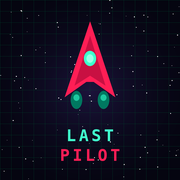
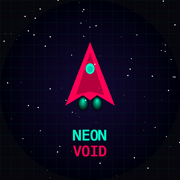
Back to Neon Void; fix offline play on GitHub Pages
Name: it's a just-for-fun school game now, so drop the Last Pilot rebrand.
Restored the original user-facing strings from before ff6e132 (title, menu
logos, intro lore, og.html, manifest, README, arcade card, worker comment)
and rebuilt the web icons from the original NEON VOID icon art. Download
names go back to neon-void-screenshot.png / neon-void-save.json. The privacy
page now links to GitHub issues instead of listing a personal email.

Offline: the service worker was registered at '/sw.js', which on
github.io/neon-void/ resolves to the domain root and 404s — so caching/offline
never worked on Pages. Register 'sw.js' relatively, make the precache list
relative, and give the manifest a relative start_url + scope so an installed
copy opens the game instead of a 404. Cache v74 -> v75.

Verified under a mirrored /neon-void/ subpath: SW registers and activates with
scope /neon-void/, all 6 assets precache, manifest start_url resolves to
/neon-void/index.html, login -> menu -> Sector 1 plays, zero console errors.

diff --git a/index.html b/index.html
@@ -3,7 +3,7 @@
 <head>
     <meta charset="UTF-8">
     <meta name="viewport" content="width=device-width, initial-scale=1.0, maximum-scale=1.0, user-scalable=no, viewport-fit=cover">
-    <title>Last Pilot</title>
+    <title>Neon Void</title>
     <link rel="manifest" href="manifest.json">
     <link rel="icon" type="image/png" sizes="512x512" href="icon-512.png">
     <link rel="apple-touch-icon" sizes="180x180" href="apple-touch-icon.png">
@@ -269,7 +269,7 @@
         })();
         </script>
         <div style="font-size:20px;color:rgba(0,255,204,0.33);letter-spacing:12px;margin-bottom:8px;animation:fadeIn 1s ease;">WELCOME TO</div>
-        <div class="title-text" style="-webkit-text-stroke: 2px #ff0055; text-shadow: 0 0 15px rgba(255,0,85,0.4), 0 0 30px rgba(255,0,85,0.19); font-size:clamp(50px,12vw,80px); animation:titlePulse 3s ease-in-out infinite;">LAST PILOT</div>
+        <div class="title-text" style="-webkit-text-stroke: 2px #ff0055; text-shadow: 0 0 15px rgba(255,0,85,0.4), 0 0 30px rgba(255,0,85,0.19); font-size:clamp(50px,12vw,80px); animation:titlePulse 3s ease-in-out infinite;">NEON VOID</div>
         <style>@keyframes titlePulse { 0%,100% { text-shadow: 0 0 15px rgba(255,0,85,0.4), 0 0 30px rgba(255,0,85,0.19); } 50% { text-shadow: 0 0 25px rgba(255,0,85,0.4), 0 0 40px rgba(255,0,85,0.19); } } @keyframes fadeIn { from { opacity:0; transform:translateY(-10px); } to { opacity:1; transform:translateY(0); } }</style>
         <div class="subtitle-text" style="color:#888;font-size:16px;letter-spacing:4px;margin-top:5px;">THE ULTIMATE SPACE SHOOTER</div>
         <div style="width:60px;height:2px;background:linear-gradient(90deg,transparent,#00ffcc,transparent);margin:20px auto;"></div>
@@ -340,7 +340,7 @@
 
 
     <div id="ui-layer">
-        <h1>LAST PILOT</h1>
+        <h1>NEON VOID</h1>
         <div class="hud-text" id="level-display">LVL: 1</div>
         <div class="hud-text" id="score-display">SCORE: 0</div>
         <div id="combo-display">COMBO x1.0</div>
@@ -373,7 +373,7 @@
 
     <div id="main-overlay" class="overlay-screen" style="overflow-y:auto;">
         <div id="menu-inner-wrap" style="display:flex;flex-direction:column;align-items:center;justify-content:center;min-height:100%;padding:30px 0 50px;">
-        <div class="title-text" id="main-title">LAST PILOT</div>
+        <div class="title-text" id="main-title">NEON VOID</div>
         <div class="subtitle-text" id="main-desc">
             <strong>ARROW KEYS / WASD</strong> to Move | <strong>SPACE / MOUSE</strong> to Shoot<br>
             <strong>SHIFT / RIGHT-CLICK</strong> to Dash | <strong>[C]</strong> to Toggle Aim | <strong>[ESC]</strong> to Pause<br>
@@ -5350,7 +5350,7 @@ state.paused = true; ui.lvlScreen.classList.remove('hidden'); ui.perkContainer.i
             if (typeof bestiaryData !== 'undefined') secureSave('neonVoidBestiary', bestiaryData);
             stopMusic(); startMenuBg(); if (appSettings.music) startMenuMusic();
             ui.mainOverlay.classList.remove('hidden'); ui.mainOverlay.classList.remove('win-theme');
-            ui.mainTitle.innerText = "LAST PILOT"; ui.mainTitle.style.webkitTextStroke = "2px #ff0055"; ui.mainTitle.style.textShadow = "0 0 20px rgba(255,0,85,0.38)";
+            ui.mainTitle.innerText = "NEON VOID"; ui.mainTitle.style.webkitTextStroke = "2px #ff0055"; ui.mainTitle.style.textShadow = "0 0 20px rgba(255,0,85,0.38)";
             ui.mainDesc.innerHTML = `<strong>ARROW KEYS / WASD</strong> to Move | <strong>SPACE / MOUSE</strong> to Shoot<br><strong>SHIFT / RIGHT-CLICK</strong> to Dash | <strong>[C]</strong> to Toggle Aim | <strong>[ESC]</strong> to Pause<br><span style="color: #ff0055; font-weight:bold;">THE ULTIMATE UPDATE</span>` + (isWeekendEvent() ? '<br><span style="color:#ffcc00;font-weight:bold;font-size:16px;text-shadow:0 0 10px #ffcc00;">WEEKEND EVENT: 2x XP + 2x COINS</span>' : '');
             document.getElementById('menu-coin-display').innerText = `TOTAL COINS: ${totalCoins}`;
 
@@ -6146,7 +6146,7 @@ state.paused = true; ui.lvlScreen.classList.remove('hidden'); ui.perkContainer.i
                 if (e.code === 'Digit4') photoFilter = 3;
                 if (e.code === 'Digit5') photoFilter = 4;
                 if (e.key === 's' || e.key === 'S') {
-                    let link = document.createElement('a'); link.download = 'last-pilot-screenshot.png'; link.href = canvas.toDataURL(); link.click();
+                    let link = document.createElement('a'); link.download = 'neon-void-screenshot.png'; link.href = canvas.toDataURL(); link.click();
                 }
             }
         });
@@ -9507,7 +9507,7 @@ state.paused = true; ui.lvlScreen.classList.remove('hidden'); ui.perkContainer.i
                 if (key.startsWith('neonVoid')) data[key] = localStorage.getItem(key);
             }
             let blob = new Blob([JSON.stringify(data, null, 2)], { type: 'application/json' });
-            let a = document.createElement('a'); a.href = URL.createObjectURL(blob); a.download = 'last-pilot-save.json'; a.click();
+            let a = document.createElement('a'); a.href = URL.createObjectURL(blob); a.download = 'neon-void-save.json'; a.click();
             URL.revokeObjectURL(a.href);
         }
 
@@ -11509,7 +11509,7 @@ function generateSyncCode() {
 
             ui.mainOverlay.classList.remove('hidden');
             ui.mainOverlay.classList.remove('win-theme');
-            ui.mainTitle.innerText = "LAST PILOT";
+            ui.mainTitle.innerText = "NEON VOID";
             ui.mainTitle.style.webkitTextStroke = "3px #ff0055";
             ui.mainTitle.style.textShadow = "0 0 50px #ff0055";
             ui.mainDesc.innerHTML = `<strong>ARROW KEYS / WASD</strong> to Move | <strong>SPACE / MOUSE</strong> to Shoot<br><strong>SHIFT / RIGHT-CLICK</strong> to Dash | <strong>[C]</strong> to Toggle Aim | <strong>[ESC]</strong> to Pause<br><span style="color: #ff0055; font-weight:bold;">THE ULTIMATE UPDATE</span>` + (isWeekendEvent() ? '<br><span style="color:#ffcc00;font-weight:bold;font-size:16px;text-shadow:0 0 10px #ffcc00;">WEEKEND EVENT: 2x XP + 2x COINS</span>' : '');
@@ -11986,9 +11986,9 @@ function generateSyncCode() {
                 <!-- SCROLLABLE BODY -->
                 <div class="nv-body-scroll">
 
-                    <!-- LAST PILOT TITLE -->
+                    <!-- NEON VOID TITLE -->
                     <div class="nv-title-section">
-                        <div class="nv-title-logo">LAST PILOT</div>
+                        <div class="nv-title-logo">NEON VOID</div>
                     </div>
 
                     <!-- SHIP ICON -->
@@ -13943,7 +13943,8 @@ if(mp.grappleHook){let gh=mp.grappleHook;mx.strokeStyle=COLORS.neon;mx.lineWidth
     <script>
     if ('serviceWorker' in navigator) {
         window.addEventListener('load', () => {
-            navigator.serviceWorker.register('/sw.js').catch(() => {});
+            // Relative path: the site is served from /neon-void/ on GitHub Pages, not the domain root
+            navigator.serviceWorker.register('sw.js').catch(() => {});
         });
     }
     </script>
@@ -15003,7 +15004,7 @@ function playTensionNote(){
 
 // ---- FEATURE 85: CINEMATIC INTROS ----
 var cinematicActive=false;
-var CINEMATIC_LORE=['The Void stirs. Ancient machines wake.','Signal received from Sector 7-Gamma:\n"We are not alone."','LAST PILOT PROTOCOL ENGAGED...\nYou are all that remains.','Year 2387. The last fleet launched. One returned.','WARNING: Void anomaly detected.\nAll non-essential personnel evacuate.'];
+var CINEMATIC_LORE=['The Void stirs. Ancient machines wake.','Signal received from Sector 7-Gamma:\n"We are not alone."','NEON VOID SYSTEM BOOT...\nAll pilots: scramble.','Year 2387. The last fleet launches.','WARNING: Void anomaly detected.\nAll non-essential personnel evacuate.'];
 function playBootCinematic(onDone){
   if(cinematicActive){if(onDone)onDone();return;}cinematicActive=true;
   var cvs=document.createElement('canvas');cvs.style.cssText='position:fixed;inset:0;width:100%;height:100%;z-index:99999;background:#000;';cvs.width=window.innerWidth;cvs.height=window.innerHeight;document.body.appendChild(cvs);

diff --git a/og.html b/og.html
@@ -3,7 +3,7 @@
 <head>
     <meta charset="UTF-8">
     <meta name="viewport" content="width=device-width, initial-scale=1.0, maximum-scale=1.0, user-scalable=no, viewport-fit=cover">
-    <title>Last Pilot — Classic</title>
+    <title>Neon Void — Classic</title>
     <style>
         body { 
             margin: 0; overflow: hidden; background: #000; 
@@ -82,7 +82,7 @@
 
 
     <div id="ui-layer">
-        <h1>LAST PILOT</h1>
+        <h1>NEON VOID</h1>
         <div class="hud-text" id="level-display">LVL: 1</div>
         <div class="hud-text" id="score-display">SCORE: 0</div>
         <div id="combo-display">COMBO x1.0</div>
@@ -109,7 +109,7 @@
 
 
     <div id="main-overlay" class="overlay-screen">
-        <div class="title-text" id="main-title">LAST PILOT</div>
+        <div class="title-text" id="main-title">NEON VOID</div>
         <div class="subtitle-text" id="main-desc">
             <strong>ARROW KEYS / WASD</strong> to Move | <strong>SPACE / MOUSE</strong> to Shoot<br>
             <strong>SHIFT / RIGHT-CLICK</strong> to Dash | <strong>[C]</strong> to Toggle Aim | <strong>[ESC]</strong> to Pause<br>
@@ -118,7 +118,7 @@
         </div>
         <div class="subtitle-text" id="menu-coin-display" style="color: #ffcc00; font-weight: bold; font-size: 24px;">TOTAL COINS: 0</div>
         <div class="btn-container" id="menu-btns"></div>
-        <button onclick="window.location.href='index.html'" style="border-color:#88ff88; color:#88ff88; margin-top:20px; box-shadow:0 0 15px #88ff88; font-size:14px;">BACK TO LAST PILOT</button>
+        <button onclick="window.location.href='index.html'" style="border-color:#88ff88; color:#88ff88; margin-top:20px; box-shadow:0 0 15px #88ff88; font-size:14px;">BACK TO NEW NEON VOID</button>
     </div>
 
 
@@ -1317,7 +1317,7 @@
         function returnToMenu() {
             document.getElementById('mission-select').classList.add('hidden'); document.getElementById('shop-screen').classList.add('hidden'); document.getElementById('settings-screen').classList.add('hidden'); document.getElementById('pause-screen').classList.add('hidden'); document.getElementById('draw-screen').classList.add('hidden');
             ui.mainOverlay.classList.remove('hidden'); ui.mainOverlay.classList.remove('win-theme'); 
-            ui.mainTitle.innerText = "LAST PILOT"; ui.mainTitle.style.webkitTextStroke = "3px #ff0055"; ui.mainTitle.style.textShadow = "0 0 50px #ff0055";
+            ui.mainTitle.innerText = "NEON VOID"; ui.mainTitle.style.webkitTextStroke = "3px #ff0055"; ui.mainTitle.style.textShadow = "0 0 50px #ff0055";
             ui.mainDesc.innerHTML = `<strong>ARROW KEYS / WASD</strong> to Move | <strong>SPACE / MOUSE</strong> to Shoot<br><strong>SHIFT / RIGHT-CLICK</strong> to Dash | <strong>[C]</strong> to Toggle Aim | <strong>[ESC]</strong> to Pause<br><span style="color: #ff0055; font-weight:bold;">THE COMPANION & STORY UPDATE</span>`; 
             document.getElementById('menu-coin-display').innerText = `TOTAL COINS: ${totalCoins}`;
             

diff --git a/privacy.html b/privacy.html
@@ -3,7 +3,7 @@
 <head>
 <meta charset="UTF-8">
 <meta name="viewport" content="width=device-width, initial-scale=1.0">
-<title>Last Pilot — Privacy Policy</title>
+<title>Neon Void — Privacy Policy</title>
 <style>
   :root { --bg:#06060c; --fg:#d8d8e8; --accent:#00ffcc; --accent2:#ff0055; --muted:#8a8aa0; }
   * { box-sizing:border-box; }
@@ -22,10 +22,10 @@
 </head>
 <body>
 <div class="wrap">
-  <h1>LAST PILOT</h1>
+  <h1>NEON VOID</h1>
   <div class="sub">Privacy Policy &nbsp;•&nbsp; Last updated: June 27, 2026</div>
 
-  <p>Last Pilot is a single-player arcade game with an optional online save feature. We designed it to collect as little as possible. This policy explains exactly what is stored and where.</p>
+  <p>Neon Void is a single-player arcade game with an optional online save feature. We designed it to collect as little as possible. This policy explains exactly what is stored and where.</p>
   <span class="pill">No ads · No third-party trackers · No data sold</span>
 
   <h2>What stays on your device</h2>
@@ -51,7 +51,7 @@
   <p>Cloud-save data is used for one purpose only: to store and restore your game progress when you sign in. We do not sell, rent, or share your data with third parties. Network requests the game makes are limited to our own save server over an encrypted (HTTPS) connection.</p>
 
   <h2>Children's privacy</h2>
-  <p>Last Pilot does not knowingly collect personal information from children, contains no behavioral advertising, and does no cross-app tracking. The only optional data is a self-chosen username and gameplay progress.</p>
+  <p>Neon Void does not knowingly collect personal information from children, contains no behavioral advertising, and does no cross-app tracking. The only optional data is a self-chosen username and gameplay progress.</p>
 
   <h2>Deleting your data</h2>
   <ul>
@@ -63,9 +63,9 @@
   <p>If this policy changes, the "Last updated" date above will change. Material changes will be reflected here before they take effect.</p>
 
   <h2>Contact</h2>
-  <p>Questions or data-deletion requests: <a href="mailto:asingh@xylox.ai">asingh@xylox.ai</a></p>
+  <p>Questions or data-deletion requests: <a href="https://github.com/viraajbindra-a11y/neon-void/issues">open an issue on GitHub</a></p>
 
-  <footer>Last Pilot &copy; 2026. This page is the official privacy policy referenced by the Last Pilot app on the App Store.</footer>
+  <footer>Neon Void &copy; 2026. A just-for-fun arcade game.</footer>
 </div>
 </body>
 </html>

diff --git a/games/index.html b/games/index.html
@@ -412,7 +412,7 @@ window.addEventListener('scroll', () => {
 
 const GAMES = [
     // ===== OUR CUSTOM GAMES =====
-    { title:"LAST PILOT", desc:"Space shooter with 20 sectors, co-op multiplayer, drones, bosses, ship customization.", icon:"🚀", href:"../index.html", accent:"#00ffcc", bg:"radial-gradient(ellipse at center,#002a22 0%,#06060c 70%)", tags:["shooter","multiplayer"], featured:true, noAds:true },
+    { title:"NEON VOID", desc:"Space shooter with 20 sectors, co-op multiplayer, drones, bosses, ship customization.", icon:"🚀", href:"../index.html", accent:"#00ffcc", bg:"radial-gradient(ellipse at center,#002a22 0%,#06060c 70%)", tags:["shooter","multiplayer"], featured:true, noAds:true },
     { title:"VOID SHOOTER", desc:"Retro raycasting FPS. DOOM meets cyberpunk. 3 weapons, 4 enemy types.", icon:"🔫", href:"fps.html", accent:"#ff0055", bg:"radial-gradient(ellipse at center,#2a0011 0%,#06060c 70%)", tags:["shooter"], isNew:true, noAds:true },
     { title:"1v1.LOL", desc:"Build, shoot, outplay. The real 1v1.lol.", icon:"🏗", embed:"https://1v1.lol", direct:true, accent:"#ff8800", bg:"radial-gradient(ellipse at center,#2a1800 0%,#06060c 70%)", tags:["shooter","multiplayer"] },
     { title:"BLOON DEFENSE", desc:"BTD-style tower defense. Monkey towers, bloon layers, MOAB bosses.", icon:"🎈", href:"tower-defense.html", accent:"#aa00ff", bg:"radial-gradient(ellipse at center,#1a0033 0%,#06060c 70%)", tags:["strategy"], isNew:true, noAds:true },

diff --git a/void-arcade-index.html b/void-arcade-index.html
@@ -412,7 +412,7 @@ window.addEventListener('scroll', () => {
 
 const GAMES = [
     // ===== OUR CUSTOM GAMES =====
-    { title:"LAST PILOT", desc:"Space shooter with 20 sectors, co-op multiplayer, drones, bosses, ship customization.", icon:"🚀", href:"../index.html", accent:"#00ffcc", bg:"radial-gradient(ellipse at center,#002a22 0%,#06060c 70%)", tags:["shooter","multiplayer"], featured:true, noAds:true },
+    { title:"NEON VOID", desc:"Space shooter with 20 sectors, co-op multiplayer, drones, bosses, ship customization.", icon:"🚀", href:"../index.html", accent:"#00ffcc", bg:"radial-gradient(ellipse at center,#002a22 0%,#06060c 70%)", tags:["shooter","multiplayer"], featured:true, noAds:true },
     { title:"VOID SHOOTER", desc:"Retro raycasting FPS. DOOM meets cyberpunk. 3 weapons, 4 enemy types.", icon:"🔫", href:"fps.html", accent:"#ff0055", bg:"radial-gradient(ellipse at center,#2a0011 0%,#06060c 70%)", tags:["shooter"], isNew:true, noAds:true },
     { title:"1v1.LOL", desc:"Build, shoot, outplay. The real 1v1.lol.", icon:"🏗", embed:"https://1v1.lol", direct:true, accent:"#ff8800", bg:"radial-gradient(ellipse at center,#2a1800 0%,#06060c 70%)", tags:["shooter","multiplayer"] },
     { title:"BLOON DEFENSE", desc:"BTD-style tower defense. Monkey towers, bloon layers, MOAB bosses.", icon:"🎈", href:"tower-defense.html", accent:"#aa00ff", bg:"radial-gradient(ellipse at center,#1a0033 0%,#06060c 70%)", tags:["strategy"], isNew:true, noAds:true },

diff --git a/sw.js b/sw.js
@@ -1,14 +1,14 @@
-const CACHE_NAME = 'neon-void-v74';
-// Precache ONLY the Last Pilot game's own assets. The Void Arcade portal and its
-// mini-games are a separate product; they are still served and runtime-cached on
-// first visit (see fetch handler) but no longer bloat the game's install.
+const CACHE_NAME = 'neon-void-v75';
+// Precache ONLY the game's own assets. The Void Arcade portal and its mini-games
+// are still served and runtime-cached on first visit (see fetch handler).
+// Paths are relative to this file so they resolve under /neon-void/ on GitHub Pages.
 const ASSETS = [
-  '/',
-  '/index.html',
-  '/og.html',
-  '/manifest.json',
-  '/icon-512.png',
-  '/apple-touch-icon.png'
+  './',
+  './index.html',
+  './og.html',
+  './manifest.json',
+  './icon-512.png',
+  './apple-touch-icon.png'
 ];
 
 // Install: precache core assets resiliently (one 404 must not abort the whole install)

diff --git a/cloud-save-worker/worker.js b/cloud-save-worker/worker.js
@@ -1,4 +1,4 @@
-// Last Pilot Cloud Save API - Cloudflare Worker
+// Neon Void Cloud Save API - Cloudflare Worker
 // Saves are stored in KV keyed by SHA-256(username:password) for password accounts
 // or by the uppercase username for password-less accounts. Writes are protected by a
 // trust-on-first-write `_authToken`: the first save claims the key, later saves must
@@ -107,7 +107,7 @@ export default {
 
       // Health check
       if (path === '/' || path === '/health') {
-        return json({ status: 'ok', service: 'last-pilot-saves' }, 200, corsHeaders);
+        return json({ status: 'ok', service: 'neon-void-saves' }, 200, corsHeaders);
       }
 
       return json({ error: 'Not found' }, 404, corsHeaders);

diff --git a/README.md b/README.md
@@ -1,12 +1,11 @@
-# Last Pilot
+# Neon Void
 
-A neon-drenched arcade space shooter built entirely in a single HTML file. You're the last pilot — fight through procedurally generated waves, defeat massive bosses, and unlock dozens of game modes.
+A neon-drenched arcade space shooter built entirely in a single HTML file. Fight through procedurally generated waves, defeat massive bosses, and unlock dozens of game modes.
 
 ## Play
 
 [Play Now](https://viraajbindra-a11y.github.io/neon-void/) | [iOS App](https://github.com/viraajbindra-a11y/neon-void-ios)
 
-*(Repo and iOS bundle ID keep the `neon-void` identifier for backwards-compatible saves and App Store continuity. The retail name is Last Pilot.)*
 
 ## Game Modes
 
